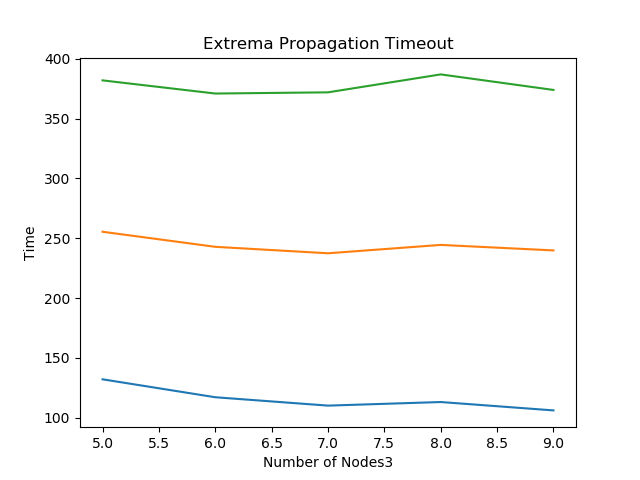
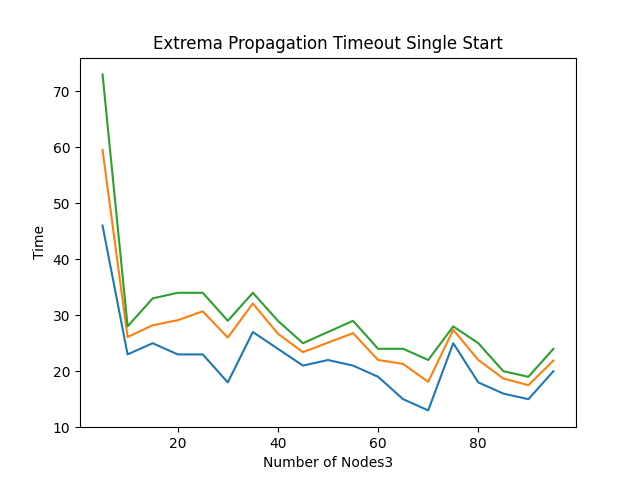
Melhora o simulador

diff --git a/discrete_event_simulator.py b/discrete_event_simulator.py
@@ -54,9 +54,6 @@ class Node:
 
     def handle_event(self, event: Event, time: int = 0) -> Tuple[List[Message], List[Tuple[int, SelfEvent]]]:
         return ([], [])
-    	
-    def finished(self) -> bool:
-        return False
 
 class Simulator:
     # distances : [src][to] = dst
@@ -99,7 +96,7 @@ class Simulator:
             for self_event in new_self_events:
                 self.put_event(self_event)
 
-        while not self.isConverged(): #not self.events.empty()
+        while not self.isConverged() or not self.events.empty():
             for node in self.nodes:
                 print( str(node.node) + " is " + str(node.converged))
             (time, event) = self.events.get()
@@ -122,11 +119,8 @@ class Simulator:
                 new_events = self.nodes[event.origin].handle_event(event, time)
             else:
                 raise NotImplementedError()
-            finish = True
-            for node in self.nodes:
-                finish &= node.finished()
-            if finish or new_events == None:
-                return
+            if new_events == None:
+                break
             (new_messages, new_self_events) = new_events
             self.put_messages(new_messages)
             for self_event in new_self_events:

diff --git a/ExtremaTimeoutSingle.py b/ExtremaTimeoutSingle.py
@@ -3,6 +3,10 @@ import random
 import statistics
 from Simulator_Statistics import Simulator_Analyzer
 
+"""
+Semelhante ao ExtremaTimeout mas apenas um dos nodos é que faz as queries.
+"""
+
 class ExtremaNode(discrete_event_simulator.Node):
     def __init__(self, node, neighbours, K: int, T: int, drop_chance = 0.0, r = 1, timeout = 1):
         self.node = node
@@ -169,11 +173,11 @@ def floods(n_iter):
 
 
 analyser = Simulator_Analyzer()
-range_n = range(5, 10)
+range_n = range(5, 100, 5)
 simulators = []
 for n in range_n:
     simulators.append(simulatorGenerator(n, 15, 15, max_dist=20))
 
-analyser.analyze_variable("Number of Nodes3", range_n, simulators, 5, title="Extrema Propagation Timeout Single Start")
+analyser.analyze_variable("Number of Nodes", range_n, simulators, 10, title="Extrema Propagation Timeout Single Start")
 
 print("Fim!!")

diff --git a/Simulator_Statistics.py b/Simulator_Statistics.py
@@ -6,7 +6,6 @@ import pylab
 
 import discrete_event_simulator
 
-
 class Run_Statistics:
     def __init__(self, tempo_min, tempo_med, tempo_max, n_mensagens_min, n_mensagens_med, n_mensagens_max ):
         self.tempo_min = tempo_min
